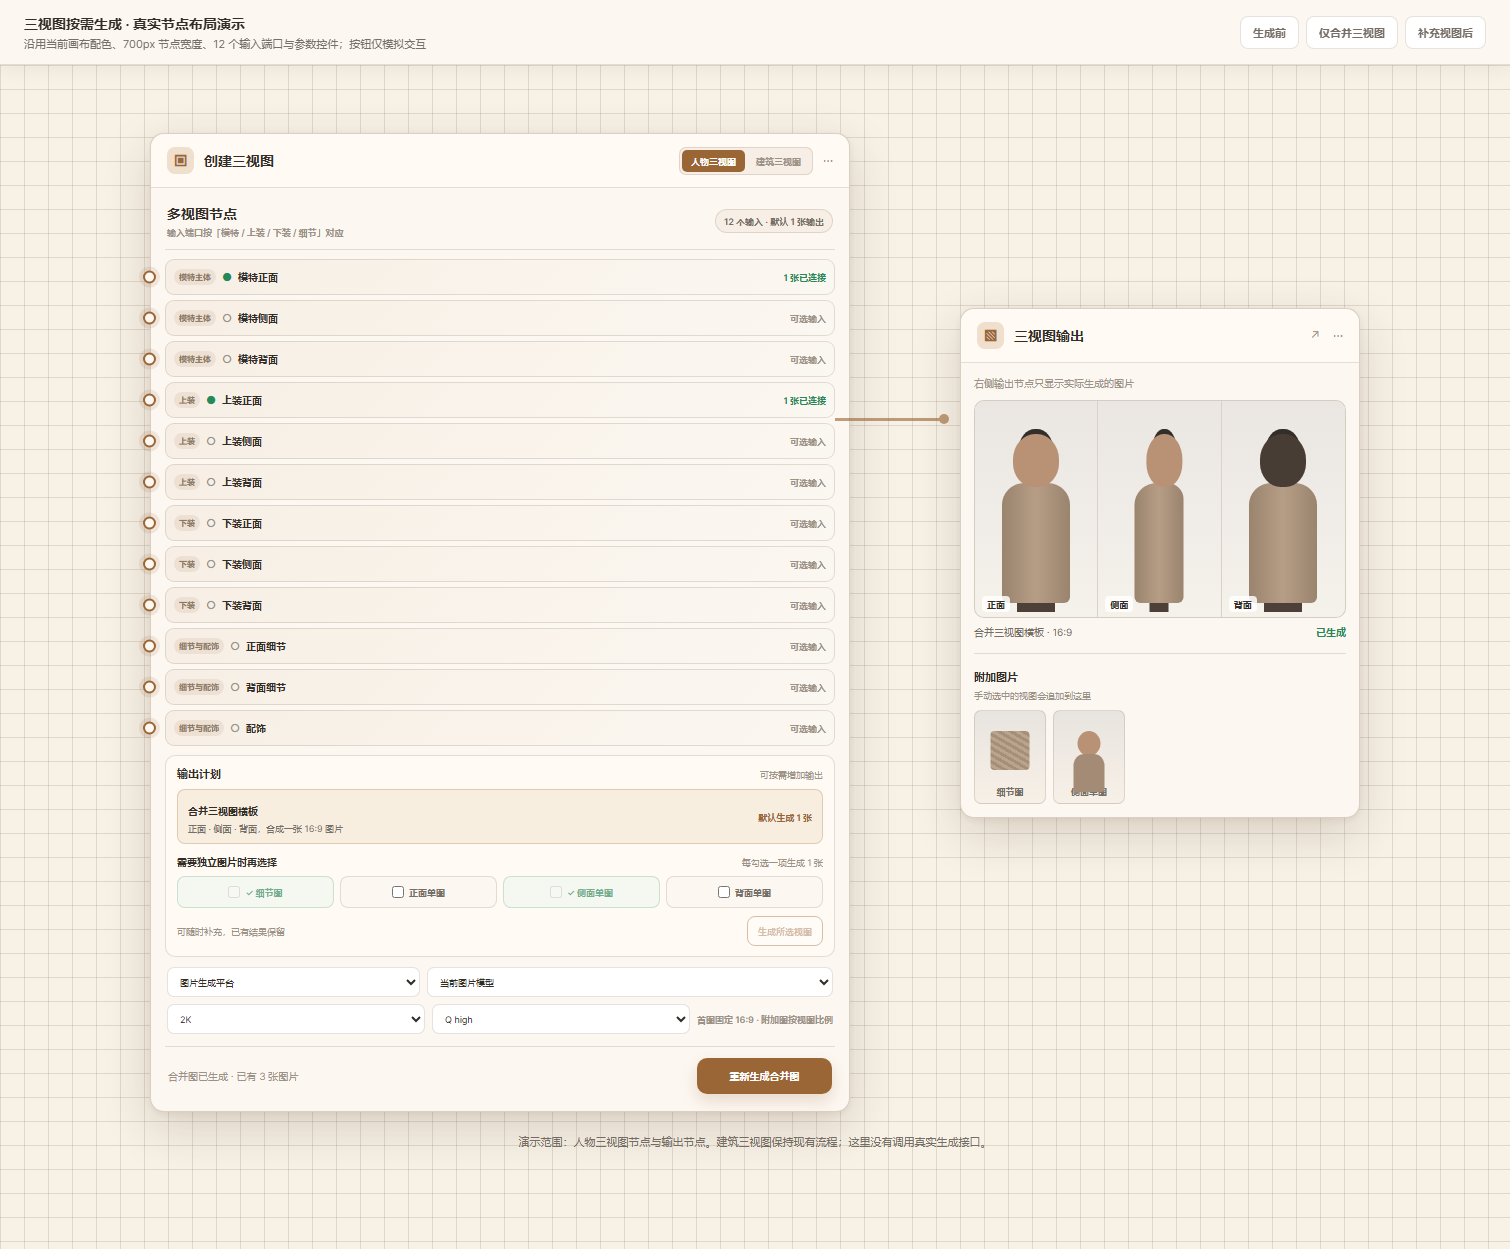
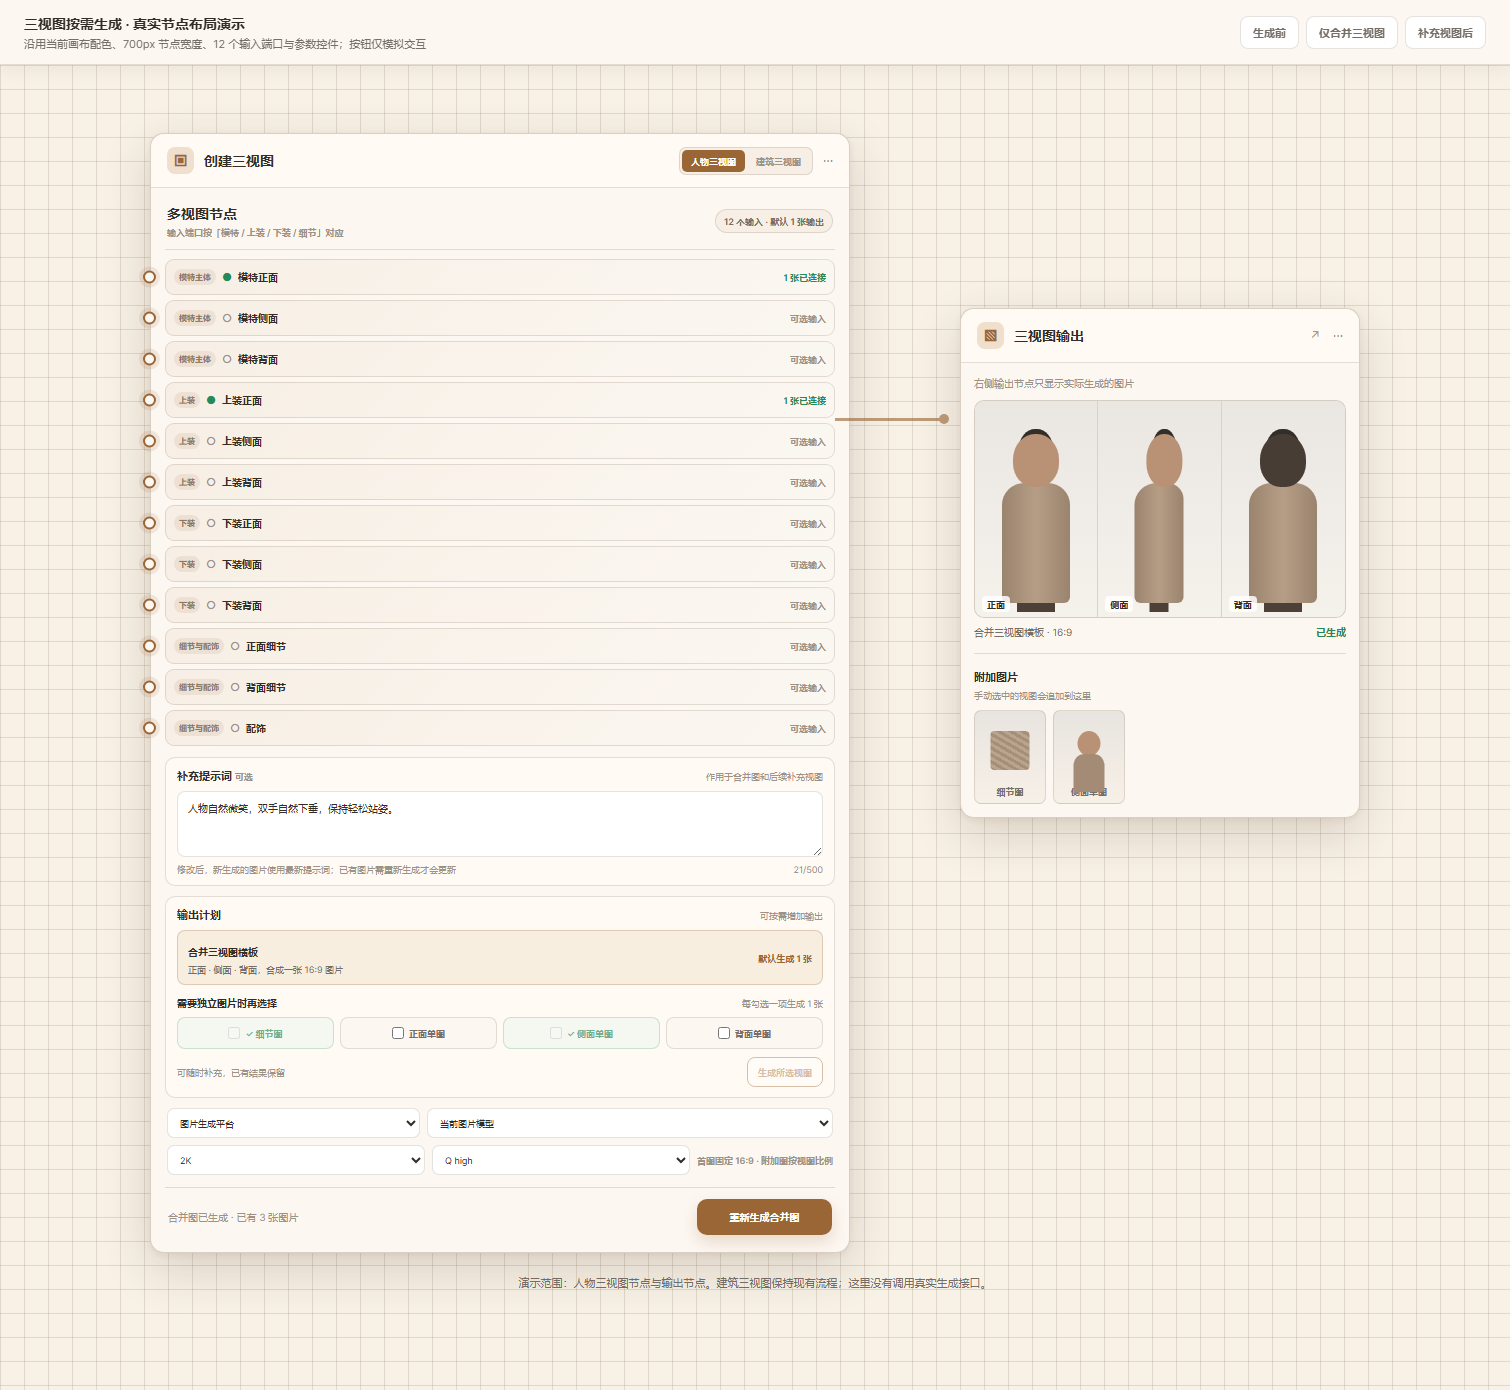
docs: add supplemental prompt to three-view layout demo

diff --git a/开发任务/217-三视图按需生成节点布局演示.html b/开发任务/217-三视图按需生成节点布局演示.html
@@ -11,6 +11,7 @@
     .canvas{min-height:1100px;padding:68px 36px 100px;background-image:linear-gradient(var(--grid) 1px,transparent 1px),linear-gradient(90deg,var(--grid) 1px,transparent 1px);background-size:24px 24px;overflow:auto}.flow{position:relative;display:flex;align-items:flex-start;justify-content:center;gap:110px;min-width:1180px;max-width:1440px;margin:auto}.connector{position:absolute;left:calc(50% + 80px);top:285px;width:110px;height:3px;background:var(--strong);opacity:.62}.connector:after{content:"";position:absolute;right:-4px;top:-4px;width:10px;height:10px;border-radius:50%;background:var(--strong)}
     .node{position:relative;flex:none;border:1px solid rgba(102,72,43,.23);border-radius:14px;background:var(--card);box-shadow:0 16px 48px rgba(82,58,34,.18),0 2px 6px rgba(82,58,34,.07);overflow:visible}.main-node{width:700px}.output-node{width:400px;margin-top:175px}.node-head{display:flex;justify-content:space-between;align-items:center;gap:10px;height:54px;padding:0 16px;border-bottom:1px solid var(--line);background:#fffaf4;border-radius:14px 14px 0 0}.head-title{display:flex;align-items:center;gap:10px;font-size:14px;font-weight:800}.head-icon{display:grid;place-items:center;width:27px;height:27px;border-radius:8px;background:#efdfcc;color:var(--strong);font-size:16px}.head-actions{display:flex;align-items:center;gap:10px;color:var(--faint);font-size:12px}.mode{display:flex;gap:2px;padding:2px;border:1px solid var(--line);border-radius:7px;background:var(--soft)}.mode span{padding:5px 9px;border-radius:5px;font-size:9px;font-weight:800}.mode .on{background:var(--strong);color:white}.node-body{padding:12px 14px 13px}.summary{display:flex;justify-content:space-between;gap:10px;align-items:center;padding:3px 2px 11px;border-bottom:1px solid var(--line)}.summary strong{font-size:14px}.summary small{display:block;margin-top:3px;color:var(--faint);font-size:9px;font-weight:700}.pill{padding:5px 8px;border:1px solid var(--line);border-radius:999px;background:var(--soft);color:var(--muted);font-size:9px;font-weight:800;white-space:nowrap}
     .input-list{display:flex;flex-direction:column;gap:5px;padding:9px 0}.slot{position:relative;display:flex;justify-content:space-between;align-items:center;min-height:36px;padding:4px 9px;border-radius:9px;background:linear-gradient(135deg,var(--soft),#fbf7f1);box-shadow:inset 0 0 0 1px var(--line)}.port{position:absolute;left:-22px;top:50%;width:13px;height:13px;transform:translateY(-50%);border:2px solid var(--strong);border-radius:50%;background:var(--card);box-shadow:0 0 0 4px rgba(154,102,54,.12)}.slot-left{display:flex;align-items:center;gap:6px;font-size:10px;font-weight:850}.group{padding:3px 5px;border-radius:999px;background:rgba(154,102,54,.10);color:#8d765e;font-size:8px;font-weight:900}.tick{color:var(--faint);font-size:11px}.slot.connected .tick,.slot.connected b{color:var(--green)}.slot b{color:var(--faint);font-size:9px;font-weight:700}
+    .prompt-box{display:block;margin:2px 0 10px;padding:10px 11px;border:1px solid var(--line);border-radius:10px;background:#fffaf4}.prompt-head,.prompt-foot{display:flex;align-items:center;justify-content:space-between;gap:12px}.prompt-head strong{font-size:11px}.prompt-head small,.prompt-foot{color:var(--faint);font-size:9px}.prompt-box textarea{display:block;width:100%;min-height:66px;max-height:150px;resize:vertical;margin:8px 0 6px;padding:9px 10px;border:1px solid var(--line);border-radius:8px;background:#fff;color:var(--text);font-family:inherit;font-size:10px;line-height:1.5;outline:none}.prompt-box textarea:focus{border-color:var(--strong);box-shadow:0 0 0 2px rgba(154,102,54,.12)}.prompt-box textarea::placeholder{color:#a79b8e}.prompt-foot span:first-child{max-width:520px}
     .plan{padding:10px 11px;border:1px solid var(--line);border-radius:10px;background:#fffaf4}.plan-title{display:flex;justify-content:space-between;align-items:center;margin-bottom:8px}.plan-title strong{font-size:11px}.plan-title small{color:var(--faint);font-size:9px}.primary-asset{display:flex;align-items:center;justify-content:space-between;gap:12px;padding:9px 10px;border:1px solid rgba(154,102,54,.26);border-radius:8px;background:#f8eee0}.primary-asset strong{font-size:10px}.primary-asset small{display:block;margin-top:3px;color:var(--muted);font-size:9px}.primary-asset .mandatory{color:var(--strong);font-size:9px;font-weight:900}.extras-head{display:flex;justify-content:space-between;align-items:center;margin:11px 0 7px}.extras-head strong{font-size:10px}.extras-head small{color:var(--faint);font-size:9px}.extras{display:grid;grid-template-columns:repeat(4,1fr);gap:6px}.extra{display:flex;align-items:center;justify-content:center;gap:5px;min-height:32px;border:1px solid var(--line);border-radius:8px;background:var(--card);color:var(--muted);font-size:9px;font-weight:800}.extra input{width:12px;height:12px;margin:0;accent-color:var(--strong)}.extra.done{border-color:rgba(37,138,87,.32);color:var(--green);background:#f0f8f0}.extra:has(input:disabled){opacity:.65}.extras-foot{display:flex;align-items:center;justify-content:space-between;gap:10px;margin-top:8px;color:var(--faint);font-size:9px}.extras-foot button{height:30px;padding:0 10px;border:1px solid var(--strong);border-radius:8px;background:#fff;color:var(--strong);font-size:9px;font-weight:850}.extras-foot button:disabled{opacity:.4;cursor:default}
     .settings{padding:10px 2px 5px}.settings-row{display:flex;gap:7px;margin-bottom:7px;align-items:center}.settings select{flex:1;min-width:0;height:30px;padding:0 8px;border:1px solid var(--line);border-radius:7px;background:#fff;color:var(--text);font-size:9px}.settings select.wide{flex:1.65}.fixed{margin-left:auto;color:var(--faint);font-size:9px;font-weight:800}.run-row{display:flex;align-items:center;justify-content:space-between;gap:8px;min-height:52px;border-top:1px solid var(--line);padding:7px 3px 0}.status{color:var(--faint);font-size:10px}.run{min-width:135px;height:36px;padding:0 12px;border:0;border-radius:10px;background:var(--strong);color:white;font-size:10px;font-weight:900;box-shadow:0 7px 15px rgba(154,102,54,.2)}
     .output-body{padding:13px}.output-note{margin:0 0 10px;color:var(--faint);font-size:10px}.board{display:grid;grid-template-columns:repeat(3,1fr);height:218px;overflow:hidden;border:1px solid var(--line);border-radius:10px;background:#ece6df}.panel{position:relative;overflow:hidden;border-right:1px solid #dbd1c7;background:linear-gradient(#eae6e2,#f5f1eb)}.panel:last-child{border-right:0}.panel:before{content:"";position:absolute;left:50%;bottom:14px;width:68px;height:120px;transform:translateX(-50%);border-radius:22px 22px 6px 6px;background:linear-gradient(90deg,#9a846e,#b69d86 50%,#9a846e);box-shadow:0 24px 0 -15px #4d4039}.panel:after{content:"";position:absolute;left:50%;top:33px;width:46px;height:53px;transform:translateX(-50%);border-radius:48% 48% 45% 45%;background:#b99276;box-shadow:0 -11px 0 -6px #342e2a}.panel.side:before{width:49px;border-radius:22px 16px 6px 6px}.panel.side:after{width:36px;transform:translateX(-35%)}.panel.back:after{background:#483d35;box-shadow:0 -11px 0 -6px #342e2a}.panel span{position:absolute;z-index:2;left:7px;bottom:5px;padding:2px 5px;border-radius:4px;background:rgba(255,255,255,.84);font-size:9px;font-weight:800}.board.empty{display:flex;align-items:center;justify-content:center;color:var(--faint);background:repeating-linear-gradient(135deg,#f7efe5,#f7efe5 9px,#fffaf4 9px,#fffaf4 18px);font-size:11px}.board.empty .panel{display:none}.asset-meta{display:flex;justify-content:space-between;gap:8px;margin:7px 0 14px;color:var(--muted);font-size:10px}.asset-meta strong{color:var(--green)}.output-extras{border-top:1px solid var(--line);padding-top:11px}.output-extras>strong{font-size:11px}.output-extras small{display:block;margin-top:4px;color:var(--faint);font-size:9px}.thumbs{display:flex;gap:7px;margin-top:9px}.thumb{position:relative;display:flex;align-items:flex-end;justify-content:center;width:72px;height:94px;padding-bottom:6px;border:1px solid var(--line);border-radius:7px;background:linear-gradient(#e8e4df,#f7f0e7);color:var(--muted);font-size:9px;font-weight:800}.thumb:before{content:"";position:absolute;top:20px;left:50%;width:23px;height:25px;transform:translateX(-50%);border-radius:50%;background:#b99276}.thumb:after{content:"";position:absolute;top:43px;left:50%;width:31px;height:38px;transform:translateX(-50%);border-radius:11px 11px 3px 3px;background:#a48b76}.thumb.detail:before{width:39px;height:39px;border-radius:4px;background:repeating-linear-gradient(30deg,#a68f79,#a68f79 3px,#b9a58e 3px,#b9a58e 6px)}.thumb.detail:after{display:none}.no-extras{margin-top:9px;padding:15px;border:1px dashed var(--line);border-radius:8px;color:var(--faint);font-size:10px;text-align:center}.demo-note{max-width:1440px;margin:22px auto 0;color:var(--muted);font-size:11px;text-align:center}
@@ -23,6 +24,7 @@
     <section class="node main-node" aria-label="创建三视图节点"><div class="node-head"><div class="head-title"><span class="head-icon">▣</span>创建三视图</div><div class="head-actions"><div class="mode"><span class="on">人物三视图</span><span>建筑三视图</span></div><span>⋯</span></div></div><div class="node-body">
       <div class="summary"><div><strong>多视图节点</strong><small>输入端口按「模特 / 上装 / 下装 / 细节」对应</small></div><span class="pill">12 个输入 · 默认 1 张输出</span></div>
       <div class="input-list" id="inputs"></div>
+      <label class="prompt-box" for="extraPrompt"><span class="prompt-head"><strong>补充提示词 <small>可选</small></strong><small>作用于合并图和后续补充视图</small></span><textarea id="extraPrompt" maxlength="500" placeholder="例如：人物自然微笑，双手下垂、站姿放松；三栏保持同一动作，背面发型与服装细节一致。"></textarea><span class="prompt-foot"><span>修改后，新生成的图片使用最新提示词；已有图片需重新生成才会更新</span><span id="promptCount">0/500</span></span></label>
       <div class="plan"><div class="plan-title"><strong>输出计划</strong><small>可按需增加输出</small></div><div class="primary-asset"><div><strong>合并三视图横板</strong><small>正面 · 侧面 · 背面，合成一张 16:9 图片</small></div><span class="mandatory">默认生成 1 张</span></div><div class="extras-head"><strong>需要独立图片时再选择</strong><small>每勾选一项生成 1 张</small></div><div class="extras" id="extras"></div><div class="extras-foot"><span id="selectionHint">可随时补充，已有结果保留</span><button id="extraRun">生成所选视图</button></div></div>
       <div class="settings"><div class="settings-row"><select aria-label="图片生成平台"><option>图片生成平台</option></select><select class="wide" aria-label="图片生成模型"><option>当前图片模型</option></select></div><div class="settings-row"><select aria-label="分辨率"><option>2K</option><option>1K</option><option>4K</option></select><select aria-label="生成质量"><option>Q high</option><option>Q auto</option></select><span class="fixed">首图固定 16:9 · 附加图按视图比例</span></div></div>
       <div class="run-row"><span class="status" id="status"></span><button class="run" id="boardRun">生成合并三视图</button></div>
@@ -33,6 +35,7 @@
   <script>
     const inputs=[['model-front','模特主体','模特正面',true],['model-side','模特主体','模特侧面'],['model-back','模特主体','模特背面'],['product-upper-front','上装','上装正面',true],['product-upper-side','上装','上装侧面'],['product-upper-back','上装','上装背面'],['product-lower-front','下装','下装正面'],['product-lower-side','下装','下装侧面'],['product-lower-back','下装','下装背面'],['front-detail','细节与配饰','正面细节'],['back-detail','细节与配饰','背面细节'],['accessory','细节与配饰','配饰']];
     document.querySelector('#inputs').innerHTML=inputs.map(([role,group,label,connected])=>`<div class="slot ${connected?'connected':''}" data-input-role="${role}"><i class="port"></i><div class="slot-left"><span class="group">${group}</span><span class="tick">${connected?'●':'○'}</span><strong>${label}</strong></div><b>${connected?'1 张已连接':'可选输入'}</b></div>`).join('');
+    document.querySelector('#extraPrompt').addEventListener('input',event=>{document.querySelector('#promptCount').textContent=`${event.target.value.length}/500`});
     const items=[['detail','细节图'],['front','正面单图'],['side','侧面单图'],['back','背面单图']];let board=true;const done=new Set();
     function render(){document.querySelector('#status').textContent=board?`合并图已生成 · 已有 ${1+done.size} 张图片`:'已连接参考图 · 默认仅生成 1 张合并三视图';document.querySelector('#boardRun').textContent=board?'重新生成合并图':'生成合并三视图';document.querySelector('#board').classList.toggle('empty',!board);document.querySelector('#boardState').textContent=board?'已生成':'等待生成';document.querySelector('#extras').innerHTML=items.map(([id,label])=>`<label class="extra ${done.has(id)?'done':''}"><input type="checkbox" value="${id}" ${!board||done.has(id)?'disabled':''}><span>${done.has(id)?'✓ ':''}${label}</span></label>`).join('');const selected=[...document.querySelectorAll('#extras input:checked')];document.querySelector('#selectionHint').textContent=selected.length?`本次将新增 ${selected.length} 张图片`:'可随时补充，已有结果保留';document.querySelector('#extraRun').disabled=!board||!selected.length;document.querySelector('#thumbs').innerHTML=done.size?`<div class="thumbs">${items.filter(([id])=>done.has(id)).map(([id,label])=>`<div class="thumb ${id}">${label}</div>`).join('')}</div>`:'<div class="no-extras">尚未生成附加图片</div>';document.querySelectorAll('.toolbar button').forEach(button=>button.classList.remove('active'))}
     function preset(which){board=which!=='reset';done.clear();if(which==='more'){done.add('detail');done.add('side')}render();document.querySelector(`[data-${which}]`).classList.add('active')}
